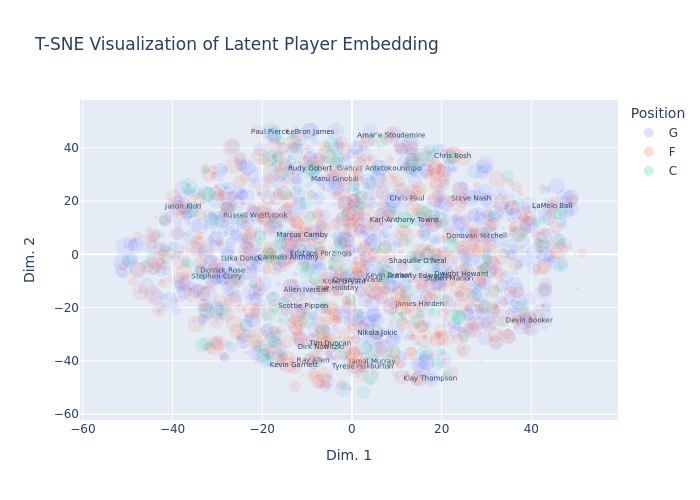
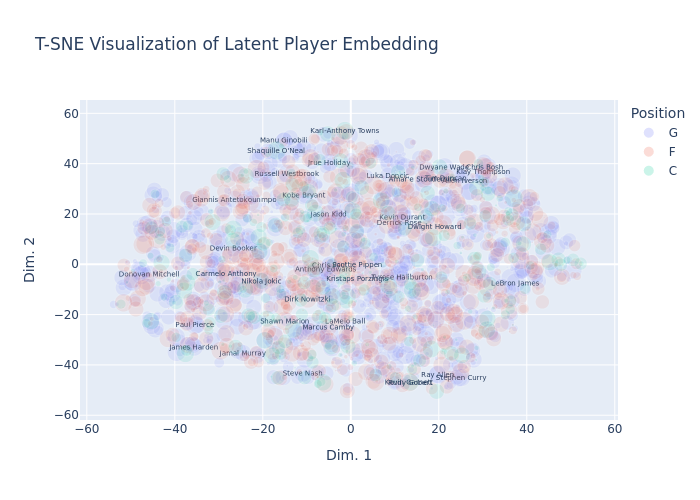
added different max formulation in terms of parabolic like structure, saw better results in the likelihood for younger players, although variance around the max must be tighter i believe

diff --git a/model/models.py b/model/models.py
@@ -4,7 +4,7 @@ import numpyro
 import numpy as np
 from numpyro import sample 
 from numpyro.distributions import  InverseGamma, Normal, Exponential, Poisson, Binomial, Dirichlet, MultivariateNormal, BetaProportion, Distribution, Uniform, Beta, Gamma
-from numpyro.infer import MCMC, NUTS, init_to_median, SVI, Trace_ELBO, Predictive, init_to_value, init_to_feasible, init_to_uniform
+from numpyro.infer import MCMC, NUTS, init_to_median, SVI, Trace_ELBO, Predictive, init_to_value, init_to_feasible, init_to_uniform, init_to_mean
 from numpyro.infer.reparam import NeuTraReparam
 from numpyro.infer.autoguide import AutoDelta, AutoBNAFNormal
 import optax
@@ -433,9 +433,9 @@ class ConvexTVRFLVM(TVRFLVM):
         super().__init__(latent_rank, rff_dim, output_shape, basis)
     def initialize_priors(self, *args, **kwargs) -> None:
         super().initialize_priors(*args, **kwargs)
-        self.prior["lengthscale_deriv"] = InverseGamma(1.0, 1.0)
+        self.prior["lengthscale_deriv"] = InverseGamma(2.0, 1.0)
         self.prior["lengthscale"] = InverseGamma(.3, .7)
-        self.prior["sigma_beta"] = InverseGamma(1.0, 1.0)
+        self.prior["sigma_beta"] = InverseGamma(2.0, 1.0)
         self.prior["sigma"] = InverseGamma(299.0, 6000.0)
         self.prior["alpha"] = InverseGamma(1.0, 1.0)
         self.prior["intercept"] = Normal()
@@ -594,11 +594,11 @@ class ConvexMaxTVRFLVM(ConvexTVRFLVM):
         super().__init__(latent_rank, rff_dim, output_shape, basis)
     def initialize_priors(self, *args, **kwargs) -> None:
         super().initialize_priors(*args, **kwargs)
-        self.prior["lengthscale"] = InverseGamma(.3, .7)
-        self.prior["sigma_beta"] = InverseGamma(1.0, 1.0)
-        self.prior["sigma_c"] = InverseGamma(2.0, .00003)
+        self.prior["lengthscale"] = InverseGamma(2.0, 1.0)
+        self.prior["sigma_beta"] = InverseGamma(2.0, 1.0)
+        self.prior["sigma_c"] = InverseGamma(2.0, .0003)
         self.prior["sigma_t"] = InverseGamma(2.0, .003)
-        self.prior["alpha"] = InverseGamma(2.0, .003)
+        self.prior["alpha"] = InverseGamma(2.0, .0003)
         self.prior["t_max"] = Normal()
         self.prior["c_max"] = Normal()
 
@@ -617,20 +617,19 @@ class ConvexMaxTVRFLVM(ConvexTVRFLVM):
         wTx = jnp.einsum("nr,mr -> nm", X, W  * jnp.sqrt(lengthscale)[None])
         psi_x = jnp.concatenate([jnp.cos(wTx), jnp.sin(wTx)], axis = -1) * (1/ jnp.sqrt(self.m))   
         sigma_t_max = self.prior["sigma_t"] if not isinstance(self.prior["sigma_t"], Distribution) else sample("sigma_t", self.prior["sigma_t"], sample_shape=(1, num_metrics))
-        t_max_raw = self.prior["t_max"] if not isinstance(self.prior["t_max"], Distribution) else sample("t_max", self.prior["t_max"], sample_shape=(self.n, num_metrics))
-        t_max = offsets["t_max"] +  t_max_raw * sigma_t_max
+        t_max_raw = self.prior["t_max"] if not isinstance(self.prior["t_max"], Distribution) else sample("t_max", self.prior["t_max"], sample_shape=(2 * self.m, num_metrics))
+        t_max = offsets["t_max"] +  make_psi_gamma(psi_x, t_max_raw) * sigma_t_max
         sigma_c_max = self.prior["sigma_c"] if not isinstance(self.prior["sigma_c"], Distribution) else sample("sigma_c", self.prior["sigma_c"], sample_shape=(1, num_metrics))
         ls_deriv = self.prior["lengthscale_deriv"] if not isinstance(self.prior["lengthscale_deriv"], Distribution) else sample("lengthscale_deriv", self.prior["lengthscale_deriv"], sample_shape=(num_metrics,))
-        intercept = make_psi_gamma(psi_x, self.prior["c_max"] if not isinstance(self.prior["c_max"], Distribution) else sample("c_max", self.prior["c_max"] , sample_shape=(2 * self.m, num_metrics))) * sigma_c_max + offsets["c_max"]
+        c_max = make_psi_gamma(psi_x, self.prior["c_max"] if not isinstance(self.prior["c_max"], Distribution) else sample("c_max", self.prior["c_max"] , sample_shape=(2 * self.m, num_metrics))) * sigma_c_max + offsets["c_max"]
         alpha_time = self.prior["alpha"] if not isinstance(self.prior["alpha"], Distribution) else sample("alpha", self.prior["alpha"], sample_shape=(num_metrics, ))
         spd = jnp.sqrt(diag_spectral_density(1, alpha_time, ls_deriv, L_time, M_time))
         weights = self.prior["beta"] if not isinstance(self.prior["beta"], Distribution) else sample("beta", self.prior["beta"], sample_shape=(self.m * 2, M_time, num_metrics))
-        weights =  weights * spd * .00001
-        phi_tmax = jnp.squeeze(jax.vmap(lambda x: vmap_make_convex_phi(x, L_time, M_time))(t_max))
-        phi_prime_tmax = jnp.squeeze(jax.vmap(lambda x: vmap_make_convex_phi_prime(x, L_time, M_time))(t_max))
-        gamma_phi_gamma_x_tmax = jnp.einsum("nm, mdk, nktdz, jzk, nj -> knt", psi_x, weights, phi_tmax[..., None, :, :] - phi_time[None, None], weights, psi_x)
-        gamma_phi_prime_gamma_x_tmax = jnp.einsum("nm, mdk, nkdz, jzk, nj, nkt -> knt", psi_x, weights, phi_prime_tmax, weights, psi_x, t_max[..., None] - (shifted_x_time - L_time)[None, None])
-        mu = jnp.transpose(intercept)[..., None]  + gamma_phi_gamma_x_tmax - gamma_phi_prime_gamma_x_tmax if not prior else numpyro.deterministic("mu", jnp.transpose(intercept)[..., None]  + gamma_phi_gamma_x_tmax - gamma_phi_prime_gamma_x_tmax)
+        weights =  weights * spd 
+        slope = (t_max + L_time) * (alpha_time[None])
+        intercept = c_max - .5 * jnp.square(t_max + L_time) * (alpha_time[None])
+        gamma_phi_gamma_x = jnp.einsum("nm, mdk, tdz, jzk, nj -> nkt", psi_x, weights, phi_time, weights, psi_x)
+        mu = make_convex_f(gamma_phi_gamma_x, shifted_x_time, slope, intercept[..., None]) if not prior else numpyro.deterministic("mu", make_convex_f(gamma_phi_gamma_x, shifted_x_time, slope, intercept[..., None]))
         if num_gaussians > 0:
             sigmas = self.prior["sigma"] if not isinstance(self.prior["sigma"], Distribution) else sample("sigma", self.prior["sigma"], sample_shape=(num_gaussians,))
             expanded_sigmas = jnp.tile(sigmas[:, None, None], (1, self.n, self.j))
@@ -644,7 +643,7 @@ class ConvexMaxTVRFLVM(ConvexTVRFLVM):
                 rate = linear_predictor[mask]
                 dist = Normal(rate, expanded_sigmas[mask] / exposure[mask])
             elif family == "poisson":
-                rate = jnp.exp(linear_predictor[mask] + exposure[mask] - exposure[mask].mean())
+                rate = jnp.exp(linear_predictor[mask] + exposure[mask])
                 dist = Poisson(rate) 
             elif family == "binomial":
                 rate = linear_predictor[mask]
@@ -660,7 +659,7 @@ class ConvexMaxTVRFLVM(ConvexTVRFLVM):
     def run_svi_inference(self, num_steps, guide_kwargs: dict = {}, model_args: dict = {}, initial_values:dict = {}):
         guide = AutoDelta(self.model_fn, prefix="", init_loc_fn = init_to_median, **guide_kwargs)
         print("Setup guide")
-        svi = SVI(self.model_fn, guide, optim=adam(.0003), loss=Trace_ELBO(num_particles=1)
+        svi = SVI(self.model_fn, guide, optim=adam(.000003), loss=Trace_ELBO(num_particles=1)
                   )
         print("Setup SVI")
         result = svi.run(jax.random.PRNGKey(0),

diff --git a/main.py b/main.py
@@ -222,7 +222,7 @@ if __name__ == "__main__":
                 if "max" in model_name:
                     model_args["offsets"] = {"t_max": offset_peak, "c_max": offset_max}
             if svi_inference:
-                samples = model.run_svi_inference(num_steps=100000, model_args=model_args, initial_values=initial_params)
+                samples = model.run_svi_inference(num_steps=500000, model_args=model_args, initial_values=initial_params)
             elif not neural_parametrization:
                 samples, extra_fields = model.run_inference(num_chains=4, num_samples=2000, num_warmup=1000, vectorized=vectorized, model_args=model_args, initial_values=initial_params)
             elif prior_predictive:
@@ -276,14 +276,13 @@ if __name__ == "__main__":
             sigma_c_max = samples["sigma_c__loc"]
             sigma_t_max = samples["sigma_t__loc"] 
             t_max_raw = samples["t_max__loc"] 
-            t_max = model_args["offsets"]["t_max"] +  t_max_raw * sigma_t_max
-            intercept = make_psi_gamma(psi_x, samples["c_max__loc"]) * sigma_c_max + model_args["offsets"]["c_max"]
-            weights *= .1
-            phi_tmax = jnp.squeeze(jax.vmap(lambda x: vmap_make_convex_phi(x, L_time, M_time))(t_max))
-            phi_prime_tmax = jnp.squeeze(jax.vmap(lambda x: vmap_make_convex_phi_prime(x, L_time, M_time))(t_max))
-            gamma_phi_gamma_x_tmax = jnp.einsum("nm, mdk, nktdz, jzk, nj -> knt", psi_x, weights, phi_tmax[..., None, :, :] - phi_time[None, None], weights, psi_x)
-            gamma_phi_prime_gamma_x_tmax = jnp.einsum("nm, mdk, nkdz, jzk, nj, nkt -> knt", psi_x, weights, phi_prime_tmax, weights, psi_x, t_max[..., None] - (shifted_x_time - L_time)[None, None])
-            mu = jnp.transpose(intercept)[..., None]  + gamma_phi_gamma_x_tmax - gamma_phi_prime_gamma_x_tmax
+            weights /= .0001
+            t_max = model_args["offsets"]["t_max"] +  make_psi_gamma(psi_x, t_max_raw) * sigma_t_max
+            c_max = make_psi_gamma(psi_x, samples["c_max__loc"]) * sigma_c_max + model_args["offsets"]["c_max"]
+            slope = (t_max + L_time) * (alpha_time[None])
+            intercept = c_max - .5 * jnp.square(t_max + L_time) * (alpha_time[None])
+            gamma_phi_gamma_x = jnp.einsum("nm, mdk, tdz, jzk, nj -> nkt", psi_x, weights, phi_time, weights, psi_x)
+            mu = make_convex_f(gamma_phi_gamma_x, shifted_x_time, slope, intercept[..., None]) 
 
         else:
             intercept_sigma = 1
